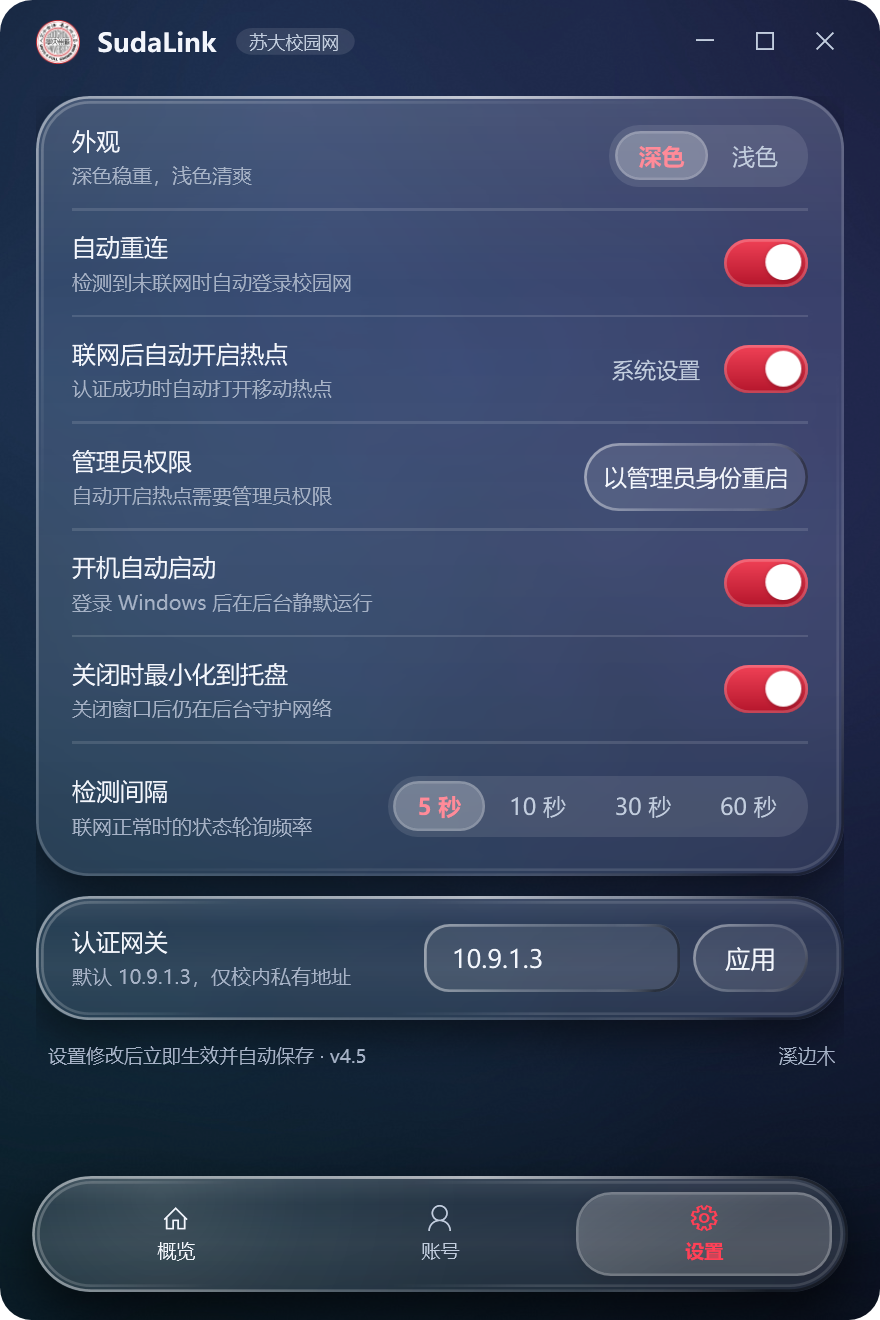
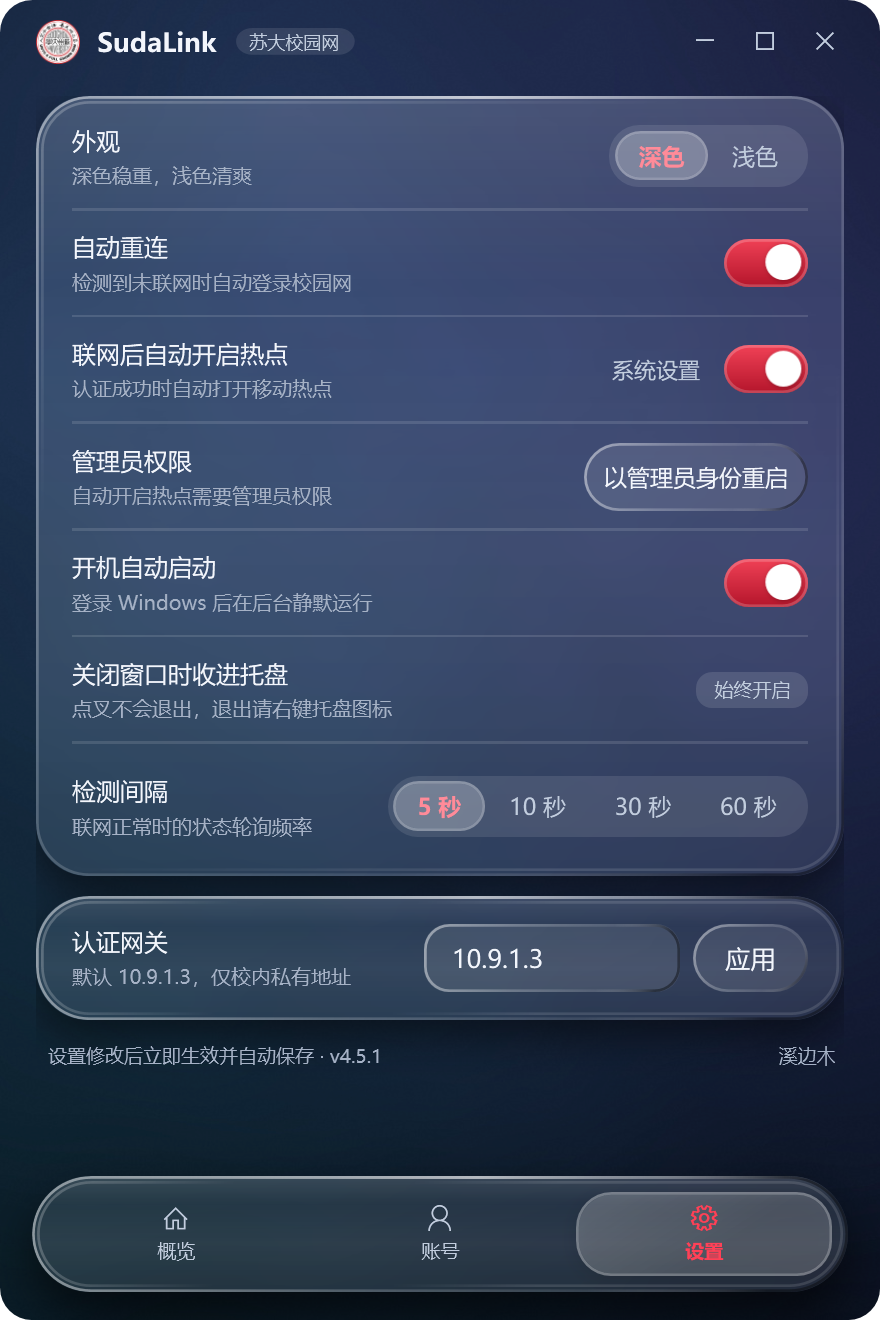
feat: 4.5.1 —— 点叉收进托盘，不再退出
用户要求：点关闭按钮不要退出，收进托盘继续守护网络。

- OnWindowClosing 改为无条件取消关闭并 Hide()，不再依赖 CloseToTray 配置，
  避免配置被改后意外退出。
- 首次收进托盘弹一次气泡提示，告知仍在后台、退出走托盘菜单。
- 退出只保留托盘右键「退出」一条路径（_exitRequested 才真正关闭）。
- 监听 SessionEnding，系统关机/注销时放行，避免被托盘逻辑挡住。
- 设置页原开关改成「始终开启」状态说明。
- 顺带修正工作目录 exe 的 Low 完整性说明（README 常见问题）。

构建 0 警告、测试 7/7；WM_CLOSE 实测窗口隐藏、进程存活。tag v4.5.1。

Changed region(s): [[0.092, 0.497, 0.4295, 0.5591], [0.7977, 0.497, 0.9205, 0.5591], [0.1841, 0.9008, 0.2148, 0.9629]]

diff --git a/src/SudaLink/MainWindow.xaml b/src/SudaLink/MainWindow.xaml
@@ -445,12 +445,14 @@
 
                                 <Grid Height="52">
                                     <StackPanel VerticalAlignment="Center">
-                                        <TextBlock Text="关闭时最小化到托盘" FontSize="12" Foreground="{DynamicResource Ink}"/>
-                                        <TextBlock Text="关闭窗口后仍在后台守护网络" FontSize="10"
+                                        <TextBlock Text="关闭窗口时收进托盘" FontSize="12" Foreground="{DynamicResource Ink}"/>
+                                        <TextBlock Text="点叉不会退出，退出请右键托盘图标" FontSize="10"
                                                    Foreground="{DynamicResource Muted}" Margin="0,3,0,0"/>
                                     </StackPanel>
-                                    <CheckBox x:Name="CloseToTraySwitch" Style="{StaticResource Switch}"
-                                              HorizontalAlignment="Right" Click="ToggleCloseToTray"/>
+                                    <Border Style="{StaticResource Tag}" HorizontalAlignment="Right"
+                                            VerticalAlignment="Center" Background="{DynamicResource SelFill}" Padding="9,3">
+                                        <TextBlock Text="始终开启" FontSize="9.5" Foreground="{DynamicResource Sub}"/>
+                                    </Border>
                                 </Grid>
 
                                 <Border Height="1" Background="{DynamicResource LineSoft}"/>
@@ -495,7 +497,7 @@
                         </controls:GlassPanel>
 
                         <Grid Margin="6,12,4,0">
-                            <TextBlock Text="设置修改后立即生效并自动保存 · v4.5" FontSize="9.5"
+                            <TextBlock Text="设置修改后立即生效并自动保存 · v4.5.1" FontSize="9.5"
                                        Foreground="{DynamicResource Muted}" VerticalAlignment="Center"/>
                             <TextBlock Text="溪边木" FontSize="9.5" Foreground="{DynamicResource Muted}"
                                        HorizontalAlignment="Right" VerticalAlignment="Center"

diff --git a/src/SudaLink/MainWindow.xaml.cs b/src/SudaLink/MainWindow.xaml.cs
@@ -40,6 +40,7 @@ public partial class MainWindow : Window
     private bool _loadingSettings;
     private bool _hotspotOn;
     private bool _pulsing;
+    private bool _trayHintShown;
     private Storyboard? _pulse;
 
     public bool StartInTray { get; init; }
@@ -48,6 +49,8 @@ public partial class MainWindow : Window
     {
         InitializeComponent();
         WindowFx.Attach(this);
+        // 系统关机/注销时允许窗口正常关闭，否则会被"收进托盘"逻辑挡住
+        Application.Current.SessionEnding += (_, _) => _exitRequested = true;
         _config = config;
         _store = store;
         _startupWarning = startupWarning;
@@ -502,7 +505,6 @@ public partial class MainWindow : Window
         AutoReconnectSwitch.IsChecked = _config.Settings.AutoReconnect;
         AutoHotspotSwitch.IsChecked = _config.Settings.AutoHotspot;
         AutoStartSwitch.IsChecked = _config.Settings.AutoStart;
-        CloseToTraySwitch.IsChecked = _config.Settings.CloseToTray;
         GatewayInput.Text = _config.Settings.Gateway;
         SelectInterval(_config.Settings.IntervalSeconds);
         _loadingSettings = true;
@@ -589,12 +591,6 @@ public partial class MainWindow : Window
         }
 
         _config.Settings.AutoStart = enabled;
-        SaveConfig();
-    }
-
-    private void ToggleCloseToTray(object sender, RoutedEventArgs e)
-    {
-        _config.Settings.CloseToTray = CloseToTraySwitch.IsChecked == true;
         SaveConfig();
     }
 
@@ -740,11 +736,30 @@ public partial class MainWindow : Window
 
     private void OnWindowClosing(object? sender, CancelEventArgs e)
     {
-        if (!_exitRequested && _config.Settings.CloseToTray)
+        // 点叉 / Alt+F4 一律收进托盘，只有托盘菜单「退出」才真正结束进程
+        if (_exitRequested)
+            return;
+
+        e.Cancel = true;
+        Hide();
+        ShowInTaskbar = false;
+        ShowTrayHintOnce();
+    }
+
+    private void ShowTrayHintOnce()
+    {
+        if (_trayHintShown)
+            return;
+        _trayHintShown = true;
+        try
         {
-            e.Cancel = true;
-            Hide();
-            ShowInTaskbar = false;
+            _tray.ShowBalloonTip(2600, "SudaLink 仍在后台运行",
+                "窗口已收进托盘，网络守护没有中断。要退出请右键托盘图标选择「退出」。",
+                Forms.ToolTipIcon.Info);
+        }
+        catch (Exception ex) when (ex is InvalidOperationException or ArgumentException)
+        {
+            // 系统关闭气泡通知时忽略
         }
     }
 

diff --git a/docs/versions/v4.5.md b/docs/versions/v4.5.md
@@ -60,3 +60,16 @@
 > 环境备注：本会话的工具沙箱会阻止从工作目录内存映射可执行文件
 > （`BundleExtractionIOError` / `CreateFileW error 5`），
 > 同一 exe 复制到其他目录运行正常，属于工具环境限制，与程序无关。
+
+
+## 4.5.1 补丁：点叉收进托盘
+
+用户要求点关闭按钮时不要退出，而是最小化到托盘继续守护网络。
+
+- `OnWindowClosing` 改为**无条件**取消关闭并 `Hide()`，
+  不再依赖 `CloseToTray` 开关（避免配置被改后意外退出）。
+- 首次收进托盘弹一次气泡：「窗口已收进托盘，网络守护没有中断；
+  退出请右键托盘图标选择退出」，之后不再打扰。
+- 退出只保留托盘菜单一条路径；`_exitRequested` 时才真正关闭。
+- 监听 `SessionEnding`，系统关机/注销时放行，不会被托盘逻辑挡住。
+- 设置页原开关改为「始终开启」状态说明，避免误导。

diff --git a/CHANGELOG.md b/CHANGELOG.md
@@ -19,6 +19,14 @@
 | [4.3](docs/versions/v4.3.md) | 修圆角阴影 + 配置固定不丢账号 | 圆角统一裁剪、投影收敛、窗口加高 |
 | [4.4](docs/versions/v4.4.md) | 高对比玻璃，截图补真实圆角 | aura 光场壁纸、面板提亮、模糊可见 |
 | [4.5](docs/versions/v4.5.md) | 热点提权、开机启动兜底 | UAC 子进程、启动文件夹、日志去重 |
+| [4.5.1](docs/versions/v4.5.md#451-补丁点叉收进托盘) | 点叉收进托盘 | 关闭不再退出、气泡提示 |
+
+## 4.5.1
+
+**点叉不再退出。** 关闭窗口（点叉 / Alt+F4）一律收进托盘，进程与网络守护保持运行；
+首次收进托盘会弹一次气泡提示。退出只保留托盘右键菜单「退出」这一条路径。
+系统关机/注销时会正常放行，不会被托盘逻辑挡住。
+设置页原「关闭时最小化到托盘」开关改为固定状态说明。
 
 ## 4.5.0
 
